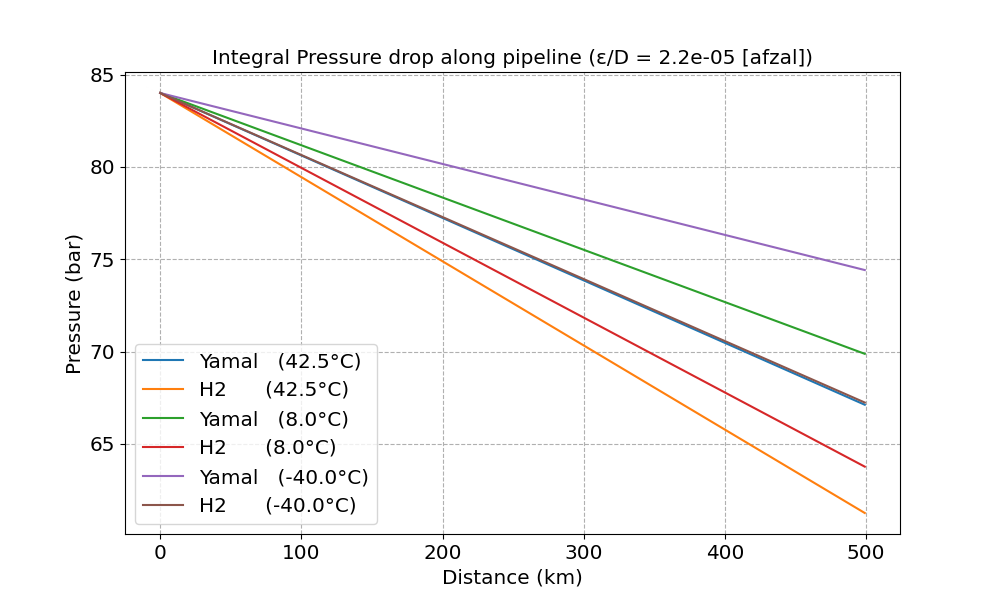
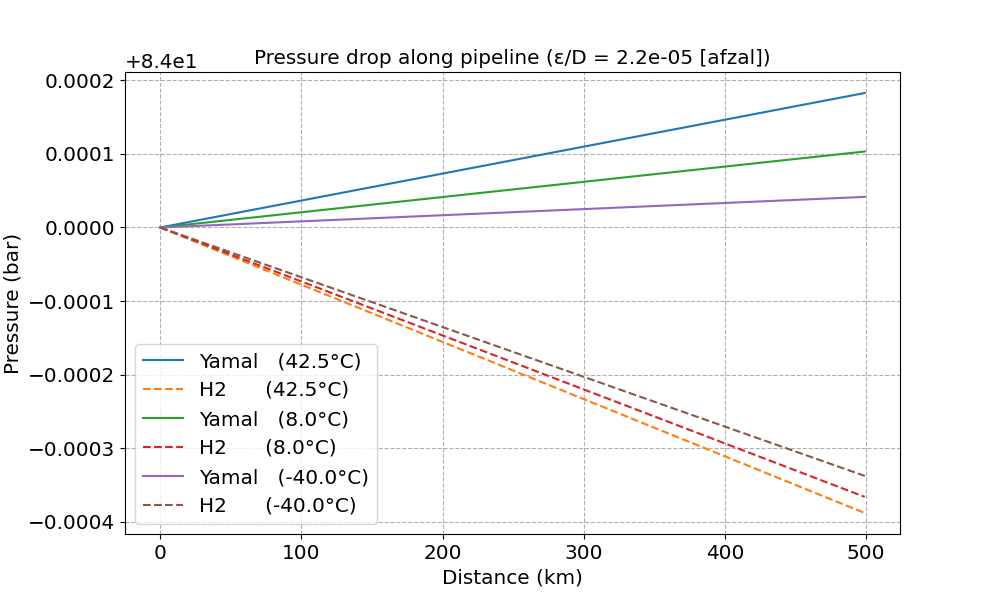
renaming and rearranging

diff --git a/moody.py b/moody.py
@@ -12,7 +12,7 @@ from scipy.interpolate import interp1d
 from scipy.integrate import quad
 
 from peng_utils import memoize
-from peng import  R, get_v_ratio, get_Δp_ratio_br, get_ϱ_ratio, get_μ_ratio, Atm, T273, set_mix_rule, do_mm_rules, dzdp, get_viscosity, get_Hc, get_z, get_density
+from peng import  R, get_v_ratio, get_Δp_ratio_br, get_ϱ_ratio, get_μ_ratio, Atm, T273, set_mix_rule, do_mm_rules, dzdp, get_viscosity, get_Hc, get_z, get_density, style, colour
 
 # We memoize some functions so that they do not get repeadtedly called with
 # the same arguments. Yet still be retain a more obvius way of writing the program.
@@ -486,9 +486,8 @@ def get_v_from_Q(g, T, P, Qg, D):
     A = get_A(D)
     
     v = Qv / A # m/s
-    print(f"-- {g:7}  {P=:9.1f} bar {v=:9.5f} m/s  {ϱ=:9.5f} kg/m^3 {Qg=:9.5f} kg/s {Qv=:9.5f} m^3/s")
+    #print(f"-- {g:7}  {P=:9.1f} bar {v=:9.5f} m/s  {ϱ=:9.5f} kg/m^3 {Qg=:9.5f} kg/s {Qv=:9.5f} m^3/s")
     return v
-    
     
 @memoize
 def get_A(D):
@@ -519,7 +518,7 @@ def funct_B(g, Qg, T, D):
     return T * funct_B_sub(g, Qg, D)
 
 @memoize
-def d_p(x, g, T, P, f_function, rr, D, Qh):
+def d_p37(x, g, T, P, f_function, rr, D, Qh):
     """This is the near-ideal version of the equations, where the inertial term and 
     the dZ/dP terms are omitted
     
@@ -541,15 +540,15 @@ def d_p(x, g, T, P, f_function, rr, D, Qh):
 
     Re = ϱ * v * D / μ # dimensionless as Pa ≡ N/m^2 and kg.m/s^2 ≡ N
     ff = f_function(Re, rr) # afzal(reynolds, relative_roughness), dimensionless
-    print (f"--{g:7}  {ff=:.3e} {Re=:0.3e}  {ϱ=:8.4f}  {v=:0.3f} m/s {μ=:8.2e} Pa.s")
+    # print (f"--{g:7}  {ff=:.3e} {Re=:0.3e}  {ϱ=:8.4f}  {Z=:0.5f}  {v=:0.3f} m/s {μ=:8.2e} Pa.s")
     P = P *1e5 # convert bar to Pa
     gradient  =  - B * ff * Z  / (2 * D * P) # (P1 - P2)/L # Pa /m
     gradient = gradient * 1e-5 # bar/m
-    print (f"--{g:7} {P=:0.5f} Pa  {Z=:0.5f}  {B=:0.5e} Pa^2 {gradient=:0.5e} bar/m")
+    #print (f"--{g:7} P={P/1e5:0.5f} bar  {B=:0.5e} Pa^2 gradient={gradient*1000:0.5e} bar/km")
     return gradient
     
 @memoize
-def d_pipe(g, T, P, f_function, rr, D, Qh):
+def d_pipe(L, g, T, P, f_function, rr, D, Qh):
     r""" Equation 36 {Sargent2024b}
     \begin{equation}
     \label{eqn:force9a}
@@ -588,7 +587,6 @@ def d_pipe(g, T, P, f_function, rr, D, Qh):
     print (f"--{g:7} dP/dx={gradient:8.4f}Pa/m {nom=:0.5f} {denom=:0.5f}  {(Z/P)=:0.5e}  {-(P/B)=:0.5e} {-dZdP=:0.5e}  ")
     return gradient * 1e-5 # now in bar/m
 
-    
 @memoize
 def pint(x, g, P0):
     L = 500e3 + 1
@@ -611,7 +609,7 @@ def int_d_pint(L, g, P0, f, rr, D):
     p, est_err_quad = quad(d_pint, 2, L, args=(g, P0, f, rr, D))
     p = p + P0
     
-    # print(f"{int(L/1000):5} km {p:8.3f} bar  {original:8.3f} bar     {p-original:9.3f}")
+    #print(f"{int(L/1000):5} km {p:8.3f} bar  {original:8.3f} bar     {p-original:9.3f}")
     return p
     
 def int_d_p(L, g, T, P0, f_function, rr, D, Qh):
@@ -621,10 +619,10 @@ def int_d_p(L, g, T, P0, f_function, rr, D, Qh):
     # def d_p(g, T, P, f_function, rr, D, Qh):
 
    
-    p, est_err_quad = quad(d_p, 2, L, args=(g, T, P0, f_function, rr, D, Qh))
-    p = p + P0
+    grad, est_err_quad = quad(d_pipe, 2, L, args=(g, T, P0, f_function, rr, D, Qh))
+    p = grad + P0
     
-    # print(f"{int(L/1000):5} km {p:8.3f} bar  {original:8.3f} bar     {p-original:9.3f}")
+    print(f"{int(L/1000):5} km {p:8.3f} bar {grad=:8.3e} bar ")
     return p
  
         
@@ -632,17 +630,24 @@ def plot_pipeline(title_in, output, plot="linear", fff=afzal):
     # Derived from plot_pt_diagram(), all need refactoring
     global P, T
     
-    def plotit(p_x, plot, ff, label):
+    def plotit(g, p_x, plot, ff, label):
         # Plot the calculated curves 
         if plot == "loglog":
             for rr, p in p_x.items():
-                plt.loglog(x_range/1000, ff, label=label)
+                plt.loglog(x_range/1000, ff, label=label, **plot_kwargs(g))
         if plot == "linear":
             for rr, ff in p_x.items():
-                plt.plot(x_range/1000, ff, label=label)
+                plt.plot(x_range/1000, ff, label=label, **plot_kwargs(g))
         if plot == "linlog":
             for rr, ff in p_x.items():
-                plt.semilogx(x_range/1000, ff, label=label)
+                plt.semilogx(x_range/1000, ff, label=label, **plot_kwargs(g))
+
+    def saveit(title,filename):
+        plt.title(title)
+        plt.xlabel('Distance (km)')
+        plt.grid(True, which='both', ls='--')
+        plt.legend()
+        plt.savefig(filename)
         
     t_range = [42.5, 8, -40]
     D = 1.3836 # m
@@ -658,7 +663,7 @@ def plot_pipeline(title_in, output, plot="linear", fff=afzal):
     print(f"{Qv=:9.4f} m^3/s at {P0} bar and 42.5 C  {Qg=:9.4f} kg/s {Qh=:9.4f} GW")
     # Qh = 21.1851 # GW = 10^3 MJ/s - use this as baseline and convert to Q for each gas
     L_pipe = 500e3
-    x_range = np.linspace(1, L_pipe-1000, 100) # 500 km
+    x_range = np.linspace(1, L_pipe-1000, 50) # 500 km
 
 
     if not type(fff) is list:
@@ -668,57 +673,10 @@ def plot_pipeline(title_in, output, plot="linear", fff=afzal):
     for f in fff: # several different friction factor functions
         plt.figure(figsize=(10, 6))
 
-        fn = f"{f.__name__}"
-        title = title_in + f" (ε/D = {rr0} [{fn}])"
-        filename = output + "_" + fn + ".png"
+       # (b) This is eqn(37) direct calculated differential curve
         
-        for t in t_range:
-            T = T273+t
-            lab =  f" ({T-T273:.1f}°C)"
-            # Calculate the curves 
-
-            p_x = {}
-            for g in ['Yamal', 'H2']:
-                label = f"{g:7}" + lab
-                print(label)
-                p_x[T] = [pint(x, g, P0) for x in x_range]
-                plotit(p_x, plot, f, label)
-                
-
-        plt.xlabel('Distance (km)')
-        plt.ylabel('Pressure (bar)')
-        plt.title(title)
-        plt.grid(True, which='both', ls='--')
-        plt.legend()
-        plt.savefig(filename)
         
-        # Now the differential (a) of the sqrt function, (b) the real one
-        
-        plt.figure(figsize=(10, 6))
-        fn = f"{f.__name__}"
-        title = title_in + f" (ε/D = {rr0} [{fn}])"
-        filename = output + "_D_" + fn + ".png"
-        
-        for t in t_range:
-            T = T273+t
-            lab =  f" ({T-T273:.1f}°C)"
-            # Calculate the curves 
-
-            p_x = {}
-            for g in ['Yamal', 'H2']:
-                label = f"{g:7}" + lab
-                print(label)
-                p_x[T] = [d_pint(x, g, P0, f, rr0, D)*1e3 for x in x_range]
-                plotit(p_x, plot, f, label)
-
-        plt.xlabel('Distance (km)')
-        plt.ylabel('Pressure gradient (bar/km)')
-        plt.title("Gradient of " + title )
-        plt.grid(True, which='both', ls='--')
-        plt.legend()
-        plt.savefig(filename)
-        
-        # (b) This is eqn(36) direct calculated differential curve
+        # (b) This is eqn(37) direct calculated differential curve
         plt.figure(figsize=(10, 6))
         fn = f"{f.__name__}"
         title = title_in + f" (ε/D = {rr0} [{fn}])"
@@ -734,21 +692,17 @@ def plot_pipeline(title_in, output, plot="linear", fff=afzal):
                 label = f"{g:7}" + lab
                 print(label)
                 # eqn 36 p_x[T] = [d_pipe(g, T, P0, f, rr0, D, Qh)*1e3 for x in x_range]
-                p_x[T] = [d_p(x, g, T, P0, f, rr0, D, Qh)*1e3 for x in x_range] # eqn 38
-                plotit(p_x, plot, f, label)
+                p_x[T] = [d_p37(x, g, T, P0, f, rr0, D, Qh)*1e3 for x in x_range] # eqn 38
+                plotit(g, p_x, plot, f, label)
 
-        plt.xlabel('Distance (km)')
         plt.ylabel('Pressure gradient (bar/km)')
-        plt.title("Gradient of " + title )
-        plt.grid(True, which='both', ls='--')
-        plt.legend()
-        plt.savefig(filename)       
+        saveit("Gradient of " + title,filename)
 
         # Now the integral of dP/dx
         
         plt.figure(figsize=(10, 6))
         fn = f"{f.__name__}"
-        title = "Integral " + title_in + f" (ε/D = {rr0} [{fn}])"
+        title =  title_in + f" (ε/D = {rr0} [{fn}])"
         filename = output + "_i_" + fn + ".png"
         
         for t in t_range:
@@ -760,43 +714,76 @@ def plot_pipeline(title_in, output, plot="linear", fff=afzal):
             for g in ['Yamal', 'H2']:
                 label = f"{g:7}" + lab
                 print(label)
-                # def d_p(g, T, P, f_function, rr, D, Qh):
+                # def d_p37(g, T, P, f_function, rr, D, Qh):
 
                 p_x[T] = [int_d_p(x, g, T, P0, f, rr0, D, Qh) for x in x_range]
-                plotit(p_x, plot, f, label)
+                plotit(g, p_x, plot, f, label)
 
-        plt.xlabel('Distance (km)')
         plt.ylabel('Pressure (bar)')
-        plt.title(title)
-        plt.grid(True, which='both', ls='--')
-        plt.legend()
-        plt.savefig(filename)
+        saveit(title,filename)
 
-        # Now the integral of the differential - to check
-        
-        plt.figure(figsize=(10, 6))
+        #
+        # Now the SQRT fudge to see what sort of function it looks like
+        #
         fn = f"{f.__name__}"
         title = title_in + f" (ε/D = {rr0} [{fn}])"
-        filename = output + "_I_" + fn + ".png"
+        filename = "sqrt" + "_" + fn + ".png"
         
         for t in t_range:
             T = T273+t
             lab =  f" ({T-T273:.1f}°C)"
-            # Calculate the curves 
+
+            p_x = {}
+            for g in ['Yamal', 'H2']:
+                label = f"{g:7}" + lab
+                print(label)
+                p_x[T] = [pint(x, g, P0) for x in x_range]
+                plotit(g, p_x, plot, f, label)
+               
+        plt.ylabel('Pressure (bar)')
+        saveit(title,filename)
+
+        # Now the  sqrt diff 
+
+        plt.figure(figsize=(10, 6))
+        fn = f"{f.__name__}"
+        title = title_in + f" (ε/D = {rr0} [{fn}])"
+        filename = "sqrt" + "_D_" + fn + ".png"
+        
+        for t in t_range:
+            T = T273+t
+            lab =  f" ({T-T273:.1f}°C)"
+
+            p_x = {}
+            for g in ['Yamal', 'H2']:
+                label = f"{g:7}" + lab
+                print(label)
+                p_x[T] = [d_pint(x, g, P0, f, rr0, D)*1e3 for x in x_range]
+                plotit(g, p_x, plot, f, label)
+
+        plt.ylabel('Pressure gradient (bar/km)')
+        saveit("Gradient of " + title,filename)
+
+        # Now the integral of the sqrt diff - to check
+        
+        plt.figure(figsize=(10, 6))
+        fn = f"{f.__name__}"
+        title = title_in + f" (ε/D = {rr0} [{fn}])"
+        filename = "sqrt" + "_I_" + fn + ".png"
+        
+        for t in t_range:
+            T = T273+t
+            lab =  f" ({T-T273:.1f}°C)"
 
             p_x = {}
             for g in ['Yamal', 'H2']:
                 label = f"{g:7}" + lab
                 print(label)
                 p_x[T] = [int_d_pint(x, g, P0, f, rr0, D) for x in x_range]
-                plotit(p_x, plot, f, label)
+                plotit(g, p_x, plot, f, label)
 
-        plt.xlabel('Distance (km)')
         plt.ylabel('Pressure (bar)')
-        plt.title(title)
-        plt.grid(True, which='both', ls='--')
-        plt.legend()
-        plt.savefig(filename)
+        saveit(title,filename)
         
 def plot_diagram(title, filename, plot="loglog", fff=colebrook, gradient=False, h2=False, w2=False):
     """Calculate the friction factor for each relative roughness,
@@ -885,6 +872,11 @@ def export_f_table():
            f = afzal_mod(re, rr)
            ff.write(f"{f:8.3f}, {re:10.4f}\n") 
             
+def plot_kwargs(g):
+    linestyle=style(g)
+    # color=colour(g)            Want H2 lines different colours
+    #return  {'color': color, 'linestyle': linestyle}
+    return  {'linestyle': linestyle}
 # - - -- - - - -- - - - -- - - - -- - - - -- - - - -- - - - -- - - - -- - - - -- - 
 # Define the Reynolds number range and relative roughness values
 # only need 10 points for the straight line
